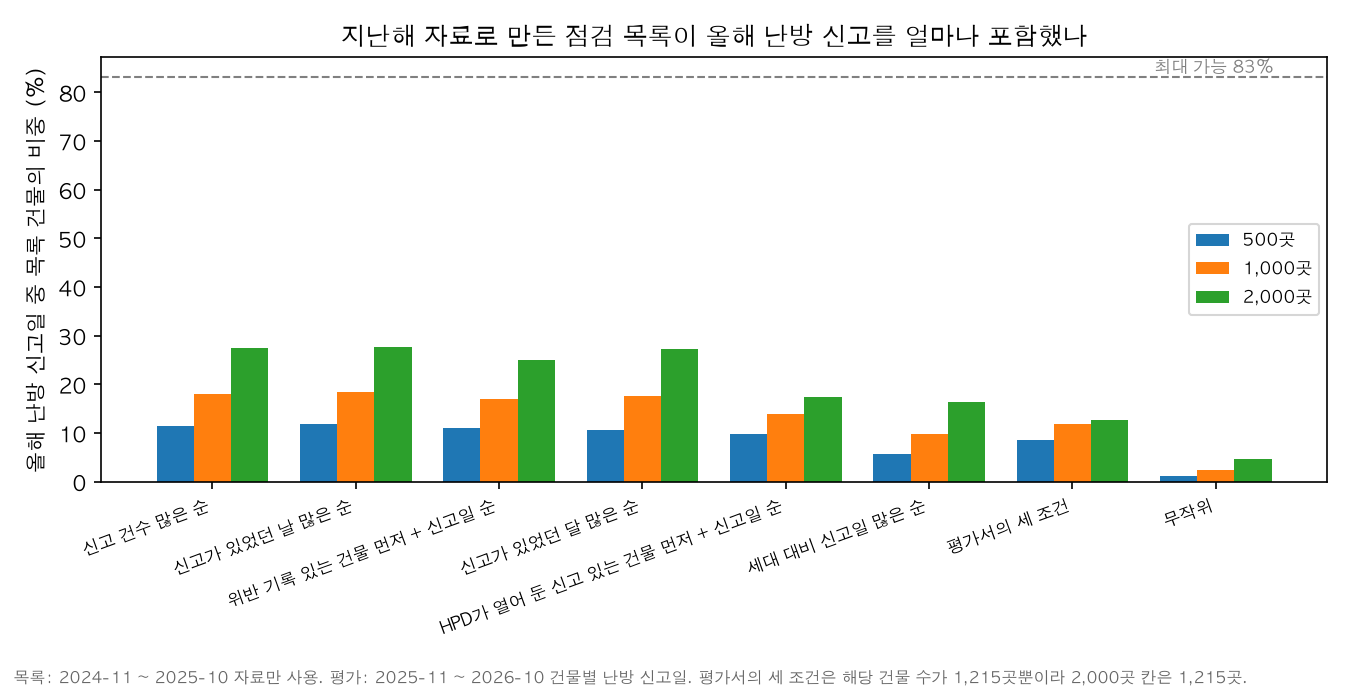
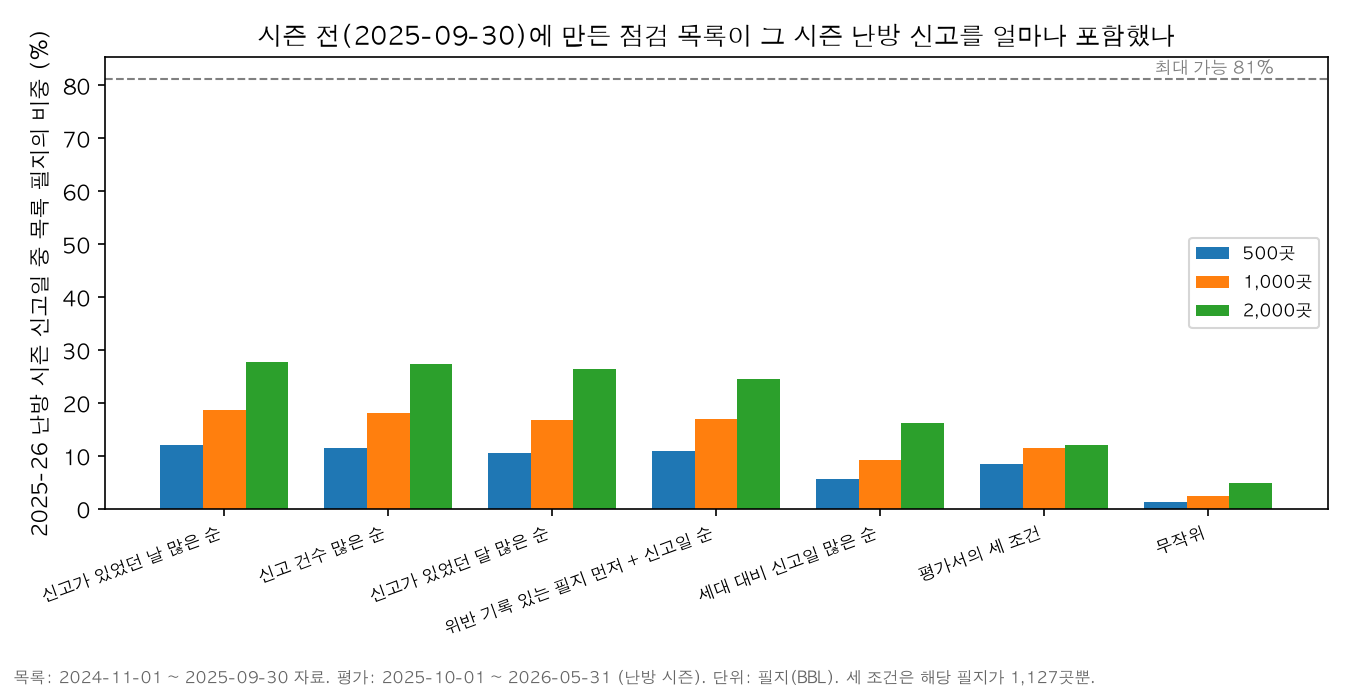
Re-time the heat inspection backtest and soften its claims
- List made on 2025-09-30 (day before the heat season) from data through
  that date; evaluated on the 2025-26 heat season (Oct-May). Violation rules
  use inspections before the list date; the 'HPD left open' rule is dropped
- 1,000 lots: report-days order 18.6%, request order 18.1%, random 2.4%;
  rough ranges overlap, so no single best rule is claimed
- Coverage is labelled as not a reduction of problems; unit is the tax lot
  (BBL), not a building; inspection counts and costs are not estimated
- Map: the heat-per-unit layer is marked as a fixed annual value

diff --git a/dashboard/app.js b/dashboard/app.js
@@ -314,30 +314,32 @@
   function proposalCard() {
     const PD = window.PROPOSAL_DATA; if (!PD) return "";
     const pc = v => `${(v * 100).toFixed(1)}%`, at = (rule, n) => PD.results.find(r => r.rule === rule && r.N === n);
-    const best = at("days", PROP_N), rnd = at("random", PROP_N);
-    const order = ["days", "volume", "months", "days_viol", "open_left", "per_unit", "three", "random"];
-    const SHORT = { days: "신고가 있었던 날 많은 순", volume: "신고 건수 많은 순", months: "신고가 있었던 달 많은 순", days_viol: "위반 건물 먼저 + 신고일 순",
-      open_left: "HPD 열어 둔 건물 먼저 + 신고일 순", per_unit: "세대 대비 신고일 순", three: "평가서의 세 조건", random: "무작위 (200번 평균)" };
+    const best = at("days", PROP_N), vol = at("volume", PROP_N), rnd = at("random", PROP_N);
+    const order = ["days", "volume", "months", "days_viol", "per_unit", "three", "random"];
+    const SHORT = { days: "신고가 있었던 날 많은 순", volume: "신고 건수 많은 순", months: "신고가 있었던 달 많은 순", days_viol: "위반 필지 먼저 + 신고일 순",
+      per_unit: "세대 대비 신고일 순", three: "평가서의 세 조건", random: "무작위 (200번 평균)" };
     const items = order.map(k => at(k, PROP_N)).filter(Boolean).map(r => ({ label: SHORT[r.rule] || r.label, value: r.share_days * 100,
       valueText: `${pc(r.share_days)}${r.buildings < PROP_N ? ` (${fmtN(r.buildings)}곳)` : ""}`, color: r.rule === "days" ? "var(--s1)" : r.rule === "random" ? GRAY : "#9db9e0", hl: r.rule === "days",
-      tip: `<b>${esc(r.label)}</b><br>${fmtN(r.buildings)}곳 · 올해 난방 신고일 ${pc(r.share_days)} · 신고 건수 ${pc(r.share_req)} · HPD 위반 ${pc(r.share_viol)}<br>목록 중 올해 10일+ 신고 ${pc(r.hit10)}` }));
-    const nSel = `<label class="tgl">점검할 건물 수 <select id="prop-n">${[500, 1000, 2000].map(n => `<option value="${n}"${n === PROP_N ? " selected" : ""}>${fmtN(n)}곳</option>`).join("")}</select></label>`;
-    const tbl = table(["목록 규칙 (지난해 자료로 만듦)", "건물", "올해 난방 신고일", "신고 건수", "HPD 위반", "올해 10일+ 신고"], order.map(k => at(k, PROP_N)).filter(Boolean).map(r => ({ cls: r.rule === "days" ? "hlrow" : r.rule === "random" ? "small" : "",
+      tip: `<b>${esc(r.label)}</b><br>${fmtN(r.buildings)}곳 · 시즌 난방 신고일 ${pc(r.share_days)} · 신고 건수 ${pc(r.share_req)} · HPD 위반 ${pc(r.share_viol)}<br>목록 중 시즌에 10일+ 신고 ${pc(r.hit10)}` }));
+    const nSel = `<label class="tgl">점검할 필지 수 <select id="prop-n">${[500, 1000, 2000].map(n => `<option value="${n}"${n === PROP_N ? " selected" : ""}>${fmtN(n)}곳</option>`).join("")}</select></label>`;
+    const tbl = table(["목록 규칙 (시즌 전 자료로 만듦)", "필지", "시즌 난방 신고일", "신고 건수", "HPD 위반", "시즌에 10일+ 신고"], order.map(k => at(k, PROP_N)).filter(Boolean).map(r => ({ cls: r.rule === "days" ? "hlrow" : r.rule === "random" ? "small" : "",
       cells: [esc(r.label), fmtN(r.buildings), `<b>${pc(r.share_days)}</b>`, pc(r.share_req), pc(r.share_viol), pc(r.hit10)] })), { num: [1, 2, 3, 4, 5] });
-    const BKO2 = r => BKO[r.borough] || r.borough;
-    return card({ id: "home-prop", cls: "proposal", q: "제안: 지난해 신고 기록으로 난방 선제 점검 목록 만들기",
-      what: `<span class="fixtag">두 해 자료로 검증 · 기준 연도와 무관</span> 겨울이 오기 전에, 지난해 난방·온수 신고가 <b>여러 날 반복된 건물</b>부터 점검하자는 제안입니다. 2024-25년 자료로만 목록을 만들고, 2025-26년 자료로 얼마나 맞았는지 확인했습니다.`,
-      meta: meta("%", "지난해 목록 → 올해 결과 (무작위 목록과 비교)", `후보: 지난해 난방 신고가 있었던 건물 ${fmtN(PD.candidates)}곳 · 대상 사용자: HPD 난방 점검팀, 세입자 단체`),
+    const rr = PD.rough_range_1000 || {}, rrTxt = k => rr[k] ? `${(rr[k][0] * 100).toFixed(1)}~${(rr[k][1] * 100).toFixed(1)}%` : "-";
+    const BKO2 = r => BKO[r.borough] || r.borough, newShare = 1 - PD.ceiling.days;
+    return card({ id: "home-prop", cls: "proposal", q: "제안: 지난 신고 기록으로 난방 시즌 전 선제 점검 목록 만들기",
+      what: `<span class="fixtag">두 해 자료로 검증 · 기준 연도와 무관</span> 난방 시즌(10월~5월)이 시작되기 전에, 직전 1년 동안 난방·온수 신고가 <b>여러 날 반복된 필지(건물 번호 BBL)</b>부터 점검하자는 제안입니다. 시즌 전날(2025-09-30)까지의 자료로만 목록을 만들고, 2025-26 난방 시즌 자료로 얼마나 맞았는지 확인했습니다.`,
+      meta: meta("%", "시즌 전 목록 → 그 시즌 결과 (무작위 목록과 비교)", `후보: 2024-11-01 ~ 2025-09-30에 난방 신고가 있었던 필지 ${fmtN(PD.candidates)}곳 · 대상 사용자: HPD 난방 점검팀, 세입자 단체`),
       body: `<div class="kpis">
-        <div class="kpi"><div class="lab">문제</div><div class="val">상위 1%</div><div class="sub">난방 신고가 있었던 건물 중 상위 1%가 신고의 약 24%를 차지하고, 같은 건물이 해마다 다시 나옵니다</div></div>
-        <div class="kpi"><div class="lab">지난해 목록 ${fmtN(PROP_N)}곳 → 올해</div><div class="val">${pc(best.share_days)}</div><div class="sub">올해 난방 신고일 중 목록 건물의 비중 · 무작위 ${pc(rnd.share_days)}의 약 ${Math.round(best.share_days / rnd.share_days)}배 · HPD 위반의 ${pc(best.share_viol)}</div></div>
-        <div class="kpi"><div class="lab">다시 반복된 건물</div><div class="val">${pc(best.hit10)}</div><div class="sub">목록 건물 중 올해도 10일 이상 신고된 비율 · 약 ${(best.units / 10000).toFixed(1)}만 세대</div></div></div>` +
-        nSel + `<h4 class="minih">목록을 만드는 방법에 따라 올해 난방 신고일을 얼마나 미리 짚었나</h4>` +
-        hbars(items, { w: wOf("home-proposal") - 40, labelW: 250, valW: 120, aria: "목록 규칙별 적중률" }) +
-        details("규칙별 자세한 값", tbl + `<p class="note">지난해 신고가 있었던 건물 전체가 올해 난방 신고일의 ${pc(PD.ceiling.days)}를 차지했습니다(어떤 목록도 이보다 높을 수 없음). 평가서의 세 조건(10일+ 반복, 세대 대비 상위 10%, 위반)은 해당 건물이 ${fmtN(PD.three_all.buildings)}곳이고 ${pc(PD.three_all.share_days)}였습니다. 같은 수를 신고일 순으로 고르면 ${pc(PD.days_same_size.share_days)}입니다.</p>`) +
-        details("1,000곳 목록의 모습 (주소는 싣지 않음)", table(["자치구", "건물", "세대"], PD.by_borough.map(r => [esc(BKO2(r)), fmtN(r.buildings), fmtN(r.units)]), { num: [1, 2] })),
-      read: `${T.f}「신고가 있었던 날이 많은 순」이 가장 잘 맞았고, 평가서가 권장한 세 조건 목록은 덜 맞았습니다. ${T.m}난방 문제는 보일러·배관처럼 건물에 붙은 원인이 많아 해마다 같은 건물에서 반복되는 것으로 보입니다(원인은 확인하지 않음). ${T.w}올해 신고일의 약 17%는 지난해 신고가 없던 건물에서 나와 목록으로 못 잡습니다. 덜 신고하는 건물·주민, 311에 거의 없는 공공임대주택(NYCHA)은 빠집니다. 선제 점검의 효과 자체는 검증하지 않았습니다. 건물주·기관 평가가 아닙니다.`,
-      more: `방법: 목록은 2024-11 ~ 2025-10 자료만, 평가는 2025-11 ~ 2026-10. 주 지표 = 올해 난방 신고가 있었던 건물·날짜 중 목록 건물의 비중(같은 날 여러 건은 1). HPD 위반 = 점검일 2025-11-01 ~ 2026-11-10의 난방·온수 위반(신고 없던 건물 포함). 무작위 = 같은 수를 200번 뽑은 평균. 한 방향·한 번의 검증입니다. 자세한 내용: <a href="../reports/heat_priority_proposal.md" target="_blank">제안 보고서</a>` });
+        <div class="kpi"><div class="lab">문제</div><div class="val">상위 1%</div><div class="sub">난방 신고가 있었던 필지 중 상위 1%가 신고의 약 24%를 차지하고, 같은 곳이 해마다 다시 나옵니다</div></div>
+        <div class="kpi"><div class="lab">시즌 전 목록 ${fmtN(PROP_N)}곳 → 2025-26 시즌</div><div class="val">${pc(best.share_days)}</div><div class="sub">시즌 난방 신고일 중 목록 필지의 비중 · 무작위 ${pc(rnd.share_days)}의 약 ${Math.round(best.share_days / rnd.share_days)}배. <b>문제가 줄어든 비율이 아닙니다</b></div></div>
+        <div class="kpi"><div class="lab">시즌에도 반복된 필지</div><div class="val">${pc(best.hit10)}</div><div class="sub">목록 필지 중 그 시즌에 10일 이상 신고된 비율 · 약 ${(best.units / 10000).toFixed(1)}만 세대</div></div></div>` +
+        nSel + `<h4 class="minih">목록을 만드는 방법에 따라 그 시즌 난방 신고일을 얼마나 미리 짚었나</h4>` +
+        hbars(items, { w: wOf("home-proposal") - 40, labelW: 250, valW: 120, aria: "목록 규칙별 포괄 비율" }) +
+        details("규칙별 자세한 값", tbl + `<p class="note">분모: 시즌 중 BBL이 있는 난방 신고의 필지·날짜 ${fmtN(PD.totals.days)}개(BBL 없는 신고 ${fmtN(PD.no_bbl_eval_requests)}건 제외). 직전 1년 신고가 있었던 필지 전체가 시즌 신고일의 ${pc(PD.ceiling.days)}를 차지했습니다(어떤 목록도 이보다 높을 수 없음). 평가서의 세 조건은 해당 필지가 ${fmtN(PD.three_all.buildings)}곳이고 ${pc(PD.three_all.share_days)}였습니다. 같은 수를 신고일 순으로 고르면 ${pc(PD.days_same_size.share_days)}입니다. 「HPD가 열어 둔 신고」 규칙은 그 문구가 목록 작성 시점에 보였는지 확인할 수 없어 비교에서 뺐습니다.</p>`) +
+        details("신고일 순 필지 1,000곳 목록의 모습 (주소는 싣지 않음)", table(["자치구", "필지", "세대"], PD.by_borough.map(r => [esc(BKO2(r)), fmtN(r.buildings), fmtN(r.units)]), { num: [1, 2] }) +
+          `<p class="note">필지(BBL)는 건물 하나와 같지 않습니다. 이 목록에는 200세대 이상 필지 ${fmtN(PD.lots_200plus_units_in_list)}곳(여러 동일 수 있음)과 콘도 대표 필지로 보이는 ${fmtN(PD.condo_billing_lots_in_list)}곳이 있습니다. 실제 점검 건수·비용은 추정하지 않았습니다.</p>`),
+      read: `${T.f}직전 1년의 신고 이력으로 만든 규칙(신고일 순 ${pc(best.share_days)}, 신고 건수 순 ${pc(vol.share_days)})은 비슷한 수준으로 무작위의 약 ${Math.round(best.share_days / rnd.share_days)}배였습니다. 두 규칙의 대략적인 범위(${rrTxt("days")}, ${rrTxt("volume")})가 겹쳐 어느 쪽이 낫다고 말할 수 없고, 한 시즌만 비교했습니다. 신고일 순은 같은 날 여러 건을 하루로 세어 몰아치기 접수의 영향을 줄이려고 고른 방식입니다. 평가서가 권장한 세 조건 목록은 이보다 낮았습니다. ${T.m}난방 문제는 보일러·배관처럼 건물에 붙은 원인이 많아 같은 곳에서 반복되는 것으로 보입니다(원인은 확인하지 않음). ${T.w}이 비율은 목록에 들어간 비중이지 문제 감소 효과가 아니며, 선제 점검의 효과는 검증하지 않았습니다. 시즌 신고일의 약 ${Math.round(newShare * 100)}%는 직전 1년 신고가 없던 필지에서 나와 목록으로 못 잡고, 덜 신고하는 곳과 311에 거의 없는 공공임대주택(NYCHA)은 빠집니다. 건물주·기관 평가가 아닙니다.`,
+      more: `시간 기준: 목록 작성일 2025-09-30(난방 시즌 전날). 선정 자료 = 2024-11-01 ~ 2025-09-30 신고와 그 기간 점검일의 HPD 위반. 평가 = 2025-10-01 ~ 2026-05-31 난방 시즌(10월은 지난해 파일, 11~5월은 올해 파일). 주 지표 = 시즌 중 난방 신고가 있었던 필지·날짜 중 목록 필지의 비중(같은 날 여러 건은 1). HPD 위반 = 같은 시즌 점검일의 난방·온수 위반(신고 없던 필지 포함). 무작위 = 같은 수를 200번 뽑은 평균. 대략적인 범위 = 시즌 필지를 다시 뽑아(300번) 목록은 그대로 두고 계산한 2.5~97.5% 구간으로, 다른 해의 결과를 보장하지 않습니다. 세대 수는 현재 PLUTO 값. 자세한 내용: <a href="../reports/heat_priority_proposal.md" target="_blank">제안 보고서</a>` });
   }
   function renderHome() {
     if ($("home-proposal")) $("home-proposal").innerHTML = proposalCard();
@@ -447,7 +449,7 @@
       unit = `건 / 주민 1,000명${st.m >= 0 ? " (한 달)" : per === 2 ? " (1년 평균)" : " (1년)"}`; what = "현재 조건(유형·기관·기간·집중 주소)의 신고를 2020년 인구로 나눈 값입니다. 주민이 아닌 사람(통근자·관광객)의 신고도 들어 있어 맨해튼 중심가는 높게 나옵니다."; }
     else if (MAP_M === "share") { const n = byCb(cbRows(cond)), d = byCb(cbRows(Object.assign({}, cond, { p: -1 }))); Object.keys(CEN).forEach(k => { val[k] = d[k] ? (n[k] || 0) / d[k] * 100 : null; });
       unit = `% (그 지역 신고 중 ${esc(pShort(st.p))})`; what = "각 세부 지역의 신고 중 고른 유형의 비중입니다(분모 = 그 지역의 모든 유형 신고)."; }
-    else if (MAP_M === "heat") { BDc.forEach(r => { val[r.cb] = r.days_per_1000; }); unit = "난방 신고일 / 주거 세대 1,000곳"; what = "건물마다 난방 신고가 있었던 날을 더해 PLUTO 주거 세대 수로 나눈 값입니다(3번 화면 건물 카드와 같은 값)."; }
+    else if (MAP_M === "heat") { BDc.forEach(r => { val[r.cb] = r.days_per_1000; }); unit = "난방 신고일 / 주거 세대 1,000곳 (1년)"; what = "필지마다 난방 신고가 있었던 날을 더해 PLUTO 주거 세대 수로 나눈 1년 값입니다(3번 화면 건물 카드와 같은 값). 위에서 고른 유형·기관·기간·집중 주소 조건은 이 값에 적용되지 않습니다."; }
     else { Object.keys(CEN).forEach(k => { val[k] = CEN[k].renter_pct; }); unit = "% (거주 가구 중 임차 가구)"; what = "2020년 인구조사(전수)의 거주 가구 중 임차 가구 비율입니다. 311 자료가 아니며, 신고하는 사람의 주거 형태를 뜻하지도 않습니다."; }
     const vs = Object.values(val).filter(v => v != null).sort((a, b) => a - b);
     const qs = [0.2, 0.4, 0.6, 0.8].map(q => vs[Math.floor(q * (vs.length - 1))]);
@@ -484,7 +486,7 @@
     const sel = `<label class="tgl">지도에 칠할 값 <select id="map-m">${OPTS.map(([k, t]) => `<option value="${k}"${k === MAP_M ? " selected" : ""}${k === "share" && st.p < 0 ? " disabled" : ""}>${t}${k === "share" && st.p < 0 ? " (위에서 유형을 고르면)" : ""}</option>`).join("")}</select></label>`;
     return card({ id: "where-map", q: "지도로 보면 어디가 높은가요? (세부 지역 59곳)",
       what: `${esc(what)} 지역을 누르면 그 세부 지역을 고릅니다.`,
-      meta: meta(esc(unit), "다섯 구간(같은 수의 지역씩)", `${MAP_M === "renter" ? "2020년 인구조사" : `${YR.label} · ${st.m >= 0 ? mLabel(st.m) : "전체 기간"}${st.x ? " · 집중 주소 제외" : ""}`} · 311 신고의 세부 지역 값 기준`),
+      meta: meta(esc(unit), "다섯 구간(같은 수의 지역씩)", `${MAP_M === "renter" ? "2020년 인구조사 (위 조건 미적용)" : MAP_M === "heat" ? `${YR.label} 1년 고정값 · 위 유형·기관·기간·집중 주소 조건 미적용 · PLUTO 커뮤니티 디스트릭트 기준` : `${YR.label} · ${st.m >= 0 ? mLabel(st.m) : "전체 기간"}${st.x ? " · 집중 주소 제외" : ""} · 311 신고의 세부 지역 값 기준`}`),
       body: sel + legendHtml + `<svg class="chart cdmap" viewBox="0 0 ${vw} ${vh}" role="img" aria-label="세부 지역 지도">${svg}</svg>` +
         details("59곳 값 모두 보기 (높은 순)", table(["세부 지역", "값", "임차 가구", "2020 인구"], ranked.map(k => ({ cls: st.cd >= 0 && CBS[st.cd] === k ? "hlrow" : "", attr: ` data-setcd="${CBS.indexOf(k)}"`, cells: [esc(lab(k)), fmtV(val[k]), `${CEN[k] ? CEN[k].renter_pct : "-"}%`, CEN[k] ? fmtN(CEN[k].pop) : "-"] })), { num: [1, 2, 3] })) + pair,
       read: ranked.length ? `${T.f}가장 높은 곳은 ${ranked.slice(0, 3).map(k => `${lab(k)}(${fmtV(val[k])})`).join(", ")}, 가장 낮은 곳은 ${ranked.slice(-2).map(k => `${lab(k)}(${fmtV(val[k])})`).join(", ")}입니다. ${T.w}색은 순위에 따른 구간이라 차이의 크기를 그대로 나타내지 않습니다. 지역 평가나 순위 매김이 아닙니다.` : "",

diff --git a/dashboard/data/proposal_data.js b/dashboard/data/proposal_data.js
@@ -1,1 +1,1 @@
-window.PROPOSAL_DATA = {"candidates":35938,"totals":{"days":228540,"req":350523,"viol":30997},"ceiling":{"days":0.8304279338409031,"req":0.8692781928717944,"viol":0.8209826757428138},"three_all":{"buildings":1215,"share_days":0.12607421020390303,"share_req":0.15786125304188314,"share_viol":0.14052972868342098,"hit10":0.6477366255144033,"any_cur":0.9588477366255144,"units":33683.0},"days_same_size":{"buildings":1215,"share_days":0.20599894985560516,"share_req":0.28559609497807564,"share_viol":0.1652740587798819,"hit10":0.8806584362139918,"any_cur":0.9876543209876543,"units":166717.0},"best":{"rule":"days","label":"신고가 있었던 날 많은 순","share_days":0.18372713748140368,"share_req":0.25829403491354347,"share_viol":0.14336871310126786,"hit10":0.894,"any_cur":0.987,"units":152229.0},"results":[{"rule":"volume","label":"신고 건수 많은 순","N":500,"buildings":500.0,"share_days":0.1146,"share_req":0.1938,"share_viol":0.0926,"hit10":0.91,"units":87695.0},{"rule":"days","label":"신고가 있었던 날 많은 순","N":500,"buildings":500.0,"share_days":0.1187,"share_req":0.1881,"share_viol":0.0893,"hit10":0.92,"units":86328.0},{"rule":"days_viol","label":"위반 기록 있는 건물 먼저 + 신고일 순","N":500,"buildings":500.0,"share_days":0.1109,"share_req":0.1671,"share_viol":0.0989,"hit10":0.918,"units":90359.0},{"rule":"months","label":"신고가 있었던 달 많은 순","N":500,"buildings":500.0,"share_days":0.1063,"share_req":0.1657,"share_viol":0.0934,"hit10":0.932,"units":105121.0},{"rule":"per_unit","label":"세대 대비 신고일 많은 순 (6세대+)","N":500,"buildings":500.0,"share_days":0.0567,"share_req":0.0798,"share_viol":0.0568,"hit10":0.64,"units":7763.0},{"rule":"three","label":"평가서의 세 조건","N":500,"buildings":500.0,"share_days":0.0863,"share_req":0.1165,"share_viol":0.069,"hit10":0.87,"units":21546.0},{"rule":"open_left","label":"HPD가 열어 둔 신고 있는 건물 먼저 + 신고일 순","N":500,"buildings":500.0,"share_days":0.0975,"share_req":0.1379,"share_viol":0.0787,"hit10":0.902,"units":86006.0},{"rule":"random","label":"무작위 (200번 평균)","N":500,"buildings":500.0,"share_days":0.0115,"share_req":0.0121,"share_viol":0.0114,"hit10":0.1575,"units":18502.515},{"rule":"volume","label":"신고 건수 많은 순","N":1000,"buildings":1000.0,"share_days":0.1794,"share_req":0.2661,"share_viol":0.1465,"hit10":0.872,"units":147731.0},{"rule":"days","label":"신고가 있었던 날 많은 순","N":1000,"buildings":1000.0,"share_days":0.1837,"share_req":0.2583,"share_viol":0.1434,"hit10":0.894,"units":152229.0},{"rule":"days_viol","label":"위반 기록 있는 건물 먼저 + 신고일 순","N":1000,"buildings":1000.0,"share_days":0.1693,"share_req":0.2336,"share_viol":0.1571,"hit10":0.875,"units":144228.0},{"rule":"months","label":"신고가 있었던 달 많은 순","N":1000,"buildings":1000.0,"share_days":0.1762,"share_req":0.2517,"share_viol":0.1532,"hit10":0.892,"units":154900.0},{"rule":"per_unit","label":"세대 대비 신고일 많은 순 (6세대+)","N":1000,"buildings":1000.0,"share_days":0.0976,"share_req":0.1297,"share_viol":0.0994,"hit10":0.58,"units":18664.0},{"rule":"three","label":"평가서의 세 조건","N":1000,"buildings":1000.0,"share_days":0.1188,"share_req":0.1511,"share_viol":0.1255,"hit10":0.722,"units":31225.0},{"rule":"open_left","label":"HPD가 열어 둔 신고 있는 건물 먼저 + 신고일 순","N":1000,"buildings":1000.0,"share_days":0.1381,"share_req":0.1801,"share_viol":0.1217,"hit10":0.808,"units":136282.0},{"rule":"random","label":"무작위 (200번 평균)","N":1000,"buildings":1000.0,"share_days":0.023,"share_req":0.0239,"share_viol":0.0225,"hit10":0.158,"units":36836.36},{"rule":"volume","label":"신고 건수 많은 순","N":2000,"buildings":2000.0,"share_days":0.2739,"share_req":0.3683,"share_viol":0.2328,"hit10":0.8105,"units":229022.0},{"rule":"days","label":"신고가 있었던 날 많은 순","N":2000,"buildings":2000.0,"share_days":0.2761,"share_req":0.3632,"share_viol":0.236,"hit10":0.8225,"units":238885.0},{"rule":"days_viol","label":"위반 기록 있는 건물 먼저 + 신고일 순","N":2000,"buildings":2000.0,"share_days":0.2501,"share_req":0.3175,"share_viol":0.2596,"hit10":0.783,"units":213899.0},{"rule":"months","label":"신고가 있었던 달 많은 순","N":2000,"buildings":2000.0,"share_days":0.2728,"share_req":0.354,"share_viol":0.2336,"hit10":0.8245,"units":246511.0},{"rule":"per_unit","label":"세대 대비 신고일 많은 순 (6세대+)","N":2000,"buildings":2000.0,"share_days":0.1634,"share_req":0.2064,"share_viol":0.1601,"hit10":0.5075,"units":41796.0},{"rule":"three","label":"평가서의 세 조건","N":2000,"buildings":1215.0,"share_days":0.1261,"share_req":0.1579,"share_viol":0.1405,"hit10":0.6477,"units":33683.0},{"rule":"open_left","label":"HPD가 열어 둔 신고 있는 건물 먼저 + 신고일 순","N":2000,"buildings":2000.0,"share_days":0.173,"share_req":0.2135,"share_viol":0.1584,"hit10":0.547,"units":181464.0},{"rule":"random","label":"무작위 (200번 평균)","N":2000,"buildings":2000.0,"share_days":0.0461,"share_req":0.0483,"share_viol":0.0454,"hit10":0.1578,"units":73972.945}],"by_borough":[{"borough":"BRONX","buildings":414,"units":62511.0,"days_cur":18253.0},{"borough":"BROOKLYN","buildings":240,"units":32872.0,"days_cur":9734.0},{"borough":"MANHATTAN","buildings":213,"units":32294.0,"days_cur":8336.0},{"borough":"QUEENS","buildings":122,"units":21277.0,"days_cur":5252.0},{"borough":"STATEN ISLAND","buildings":11,"units":3275.0,"days_cur":414.0}],"by_size":[{"size_band":"100~199","buildings":118},{"size_band":"1~2","buildings":8},{"size_band":"200+","buildings":141},{"size_band":"20~49","buildings":279},{"size_band":"3~5","buildings":12},{"size_band":"50~99","buildings":344},{"size_band":"6~19","buildings":85}],"open_left":{"prev":2663,"cur":7783},"report":"reports/heat_priority_proposal.md"};
+window.PROPOSAL_DATA = {"candidates":33486,"totals":{"days":220400.0,"req":338865.0,"viol":26354.0},"ceiling":{"days":0.8121869328493648,"req":0.8535463975329408,"viol":0.8019276011231692},"three_all":{"buildings":1127,"share_days":0.11991833030852994,"share_req":0.14372980390420964,"share_viol":0.13386962130985808,"hit10":0.642413487133984,"units":32024.0},"days_same_size":{"buildings":1127,"share_days":0.20024500907441017,"share_req":0.279828250188128,"share_viol":0.15933065189345072,"hit10":0.8766637089618456,"units":157144.0},"timing":{"list_date":"2025-09-30","selection":["2024-11-01","2025-09-30"],"evaluation":["2025-10-01","2026-05-31"],"unit":"BBL (tax lot)"},"rough_range_1000":{"days":[0.17322008368078506,0.1989560266849287],"volume":[0.16805136603864218,0.19197076588620787],"months":[0.15550297818764286,0.18025463332105687]},"by_month_days_1000":{"2025-10":0.19065656565656566,"2025-11":0.2049643568171601,"2025-12":0.18403818936359057,"2026-01":0.1636569533477584,"2026-02":0.16781490723662798,"2026-03":0.22231278655119716,"2026-04":0.22075106465350366,"2026-05":0.19552901546470677},"no_bbl_eval_requests":1196,"condo_billing_lots_in_list":33,"lots_200plus_units_in_list":137,"results":[{"rule":"days","label":"신고가 있었던 날 많은 순","N":500,"buildings":500.0,"share_days":0.1197,"share_req":0.187,"share_viol":0.0907,"hit10":0.92,"units":86484.0},{"rule":"volume","label":"신고 건수 많은 순","N":500,"buildings":500.0,"share_days":0.114,"share_req":0.1902,"share_viol":0.0866,"hit10":0.894,"units":84763.0},{"rule":"months","label":"신고가 있었던 달 많은 순","N":500,"buildings":500.0,"share_days":0.105,"share_req":0.167,"share_viol":0.0894,"hit10":0.924,"units":99826.0},{"rule":"days_viol","label":"위반 기록 있는 필지 먼저 + 신고일 순","N":500,"buildings":500.0,"share_days":0.1096,"share_req":0.1615,"share_viol":0.0979,"hit10":0.904,"units":89577.0},{"rule":"per_unit","label":"세대 대비 신고일 많은 순 (6세대+)","N":500,"buildings":500.0,"share_days":0.0557,"share_req":0.0778,"share_viol":0.0559,"hit10":0.576,"units":7627.0},{"rule":"three","label":"평가서의 세 조건","N":500,"buildings":500.0,"share_days":0.0848,"share_req":0.1095,"share_viol":0.0738,"hit10":0.85,"units":21443.0},{"rule":"random","label":"무작위 (200번 평균)","N":500,"buildings":500.0,"share_days":0.0122,"share_req":0.0129,"share_viol":0.0118,"hit10":0.1598,"units":18544.6},{"rule":"days","label":"신고가 있었던 날 많은 순","N":1000,"buildings":1000.0,"share_days":0.1863,"share_req":0.263,"share_viol":0.1443,"hit10":0.888,"units":148041.0},{"rule":"volume","label":"신고 건수 많은 순","N":1000,"buildings":1000.0,"share_days":0.1812,"share_req":0.2669,"share_viol":0.1474,"hit10":0.866,"units":134949.0},{"rule":"months","label":"신고가 있었던 달 많은 순","N":1000,"buildings":1000.0,"share_days":0.1679,"share_req":0.2404,"share_viol":0.1436,"hit10":0.854,"units":149747.0},{"rule":"days_viol","label":"위반 기록 있는 필지 먼저 + 신고일 순","N":1000,"buildings":1000.0,"share_days":0.1699,"share_req":0.2295,"share_viol":0.154,"hit10":0.864,"units":145390.0},{"rule":"per_unit","label":"세대 대비 신고일 많은 순 (6세대+)","N":1000,"buildings":1000.0,"share_days":0.0918,"share_req":0.1198,"share_viol":0.0936,"hit10":0.509,"units":17375.0},{"rule":"three","label":"평가서의 세 조건","N":1000,"buildings":1000.0,"share_days":0.115,"share_req":0.1393,"share_viol":0.1261,"hit10":0.682,"units":30594.0},{"rule":"random","label":"무작위 (200번 평균)","N":1000,"buildings":1000.0,"share_days":0.0243,"share_req":0.0256,"share_viol":0.024,"hit10":0.1612,"units":37853.645},{"rule":"days","label":"신고가 있었던 날 많은 순","N":2000,"buildings":2000.0,"share_days":0.2771,"share_req":0.3615,"share_viol":0.2383,"hit10":0.806,"units":233521.0},{"rule":"volume","label":"신고 건수 많은 순","N":2000,"buildings":2000.0,"share_days":0.2732,"share_req":0.3629,"share_viol":0.23,"hit10":0.795,"units":227863.0},{"rule":"months","label":"신고가 있었던 달 많은 순","N":2000,"buildings":2000.0,"share_days":0.264,"share_req":0.3443,"share_viol":0.23,"hit10":0.7845,"units":236975.0},{"rule":"days_viol","label":"위반 기록 있는 필지 먼저 + 신고일 순","N":2000,"buildings":2000.0,"share_days":0.2452,"share_req":0.3076,"share_viol":0.2564,"hit10":0.7495,"units":210046.0},{"rule":"per_unit","label":"세대 대비 신고일 많은 순 (6세대+)","N":2000,"buildings":2000.0,"share_days":0.1619,"share_req":0.1997,"share_viol":0.1586,"hit10":0.4785,"units":41635.0},{"rule":"three","label":"평가서의 세 조건","N":2000,"buildings":1127.0,"share_days":0.1199,"share_req":0.1437,"share_viol":0.1339,"hit10":0.6424,"units":32024.0},{"rule":"random","label":"무작위 (200번 평균)","N":2000,"buildings":2000.0,"share_days":0.0484,"share_req":0.0509,"share_viol":0.0482,"hit10":0.161,"units":74658.655}],"by_borough":[{"borough":"BRONX","buildings":418,"units":62784.0,"days_cur":18010.0},{"borough":"BROOKLYN","buildings":234,"units":31803.0,"days_cur":9272.0},{"borough":"MANHATTAN","buildings":212,"units":29640.0,"days_cur":8120.0},{"borough":"QUEENS","buildings":122,"units":20308.0,"days_cur":5260.0},{"borough":"STATEN ISLAND","buildings":14,"units":3506.0,"days_cur":393.0}],"by_size":[{"size_band":"100~199","buildings":124},{"size_band":"1~2","buildings":11},{"size_band":"200+","buildings":137},{"size_band":"20~49","buildings":275},{"size_band":"3~5","buildings":14},{"size_band":"50~99","buildings":341},{"size_band":"6~19","buildings":88}],"dropped_rules":["open_left: wording from a later file snapshot; not clear it was visible on the list date"],"report":"reports/heat_priority_proposal.md"};

diff --git a/dashboard/index.html b/dashboard/index.html
@@ -185,11 +185,11 @@
 <script src="data/both/relations_data.js?v=y2"></script>
 <script src="data/both/spike_data.js?v=y2"></script>
 <script src="data/compare_data.js?v=y2"></script>
-<script src="data/proposal_data.js?v=p1"></script>
+<script src="data/proposal_data.js?v=p2"></script>
 <script src="data/map_data.js?v=m2"></script>
 <script src="year.js?v=y2"></script>
 <script src="relations.js?v=27"></script>
-<script src="app.js?v=34"></script>
+<script src="app.js?v=35"></script>
 <!-- Independent permitted-events module -->
 <script src="data/events_data.js?v=events-20261126"></script>
 <script src="events.js?v=events-20261126"></script>

diff --git a/reports/heat_priority_proposal.md b/reports/heat_priority_proposal.md
@@ -1,98 +1,131 @@
-# 제안: 지난해 신고 기록으로 난방 선제 점검 목록 만들기
+# 제안: 지난 신고 기록으로 난방 시즌 전 선제 점검 목록 만들기
 
-> 겨울이 시작되기 전에, 지난해 난방·온수 신고가 **여러 날 반복된 건물 1,000곳**을 먼저 점검하자.
-> 2024-25년 자료로 만든 목록은 2025-26년 난방 신고일의 **18.4%**, HPD 난방·온수 위반의 **14.3%**를 미리 짚었다. 무작위로 고른 1,000곳(2.3%)의 약 8배다.
+> 난방 시즌(10월~5월)이 시작되기 전에, 직전 1년 동안 난방·온수 신고가 **여러 날 반복된 필지 1,000곳**을 먼저 점검하자.
+> 시즌 전날(2025-09-30)까지의 자료로 만든 목록은 2025-26 난방 시즌 신고일의 **18.6%**, HPD 난방·온수 위반의 **14.4%**를 미리 짚었다. 무작위로 고른 1,000곳(2.4%)의 약 8배다.
+> 이 비율은 **목록에 들어간 비중**이지 문제가 줄어든 비율이 아니다.
 
-- **작성**: 2026-11-28
+- **작성**: 2026-11-28. 같은 날 심사 의견을 반영해 시간 기준을 운영 시점으로 맞추고 다시 계산했다(아래 「바뀐 점」).
 - **대상 사용자**: 뉴욕시 주택보존개발국(HPD) 난방 점검팀, 세입자 단체
-- **근거 자료**: 311 난방·온수 신고(두 해), HPD 난방·온수 위반 기록, PLUTO 세대 수
-- **주의**: 신고는 사건이 아니고, 신고가 많은 건물이 곧 문제 건물이라는 뜻도 아니다. 건물주·기관 평가가 아니며, 대시보드에는 건물 주소를 싣지 않는다.
+- **근거 자료**: 311 난방·온수 신고(두 해 파일), HPD 난방·온수 위반 기록, PLUTO 세대 수
+- **주의**: 신고는 사건이 아니고, 신고가 많은 필지가 곧 문제 건물이라는 뜻도 아니다. 건물주·기관 평가가 아니며, 대시보드에는 주소를 싣지 않는다.
 
 ---
 
 ## 1. 문제
 
-- 난방 신고는 매년 30만 건이 넘는다(2025-26년 351,780건). 대부분 겨울 몇 달에 몰리고, 점검은 신고를 받은 뒤에 이뤄진다.
-- 그런데 신고는 일부 건물에 몰린다. 올해 난방 신고가 있었던 건물 39,718곳 중 **상위 1%가 신고의 24%**, 상위 10%가 63%다.
-- 같은 건물이 해마다 다시 나온다면, 겨울이 오기 전에 그 건물을 먼저 살피는 편이 신고를 기다리는 것보다 빠르다.
+- 난방 신고는 매년 30만 건이 넘는다(2025-11 ~ 2026-10에 351,780건). 대부분 겨울에 몰리고, 점검은 신고를 받은 뒤에 이뤄진다.
+- 신고는 일부 필지에 몰린다. 2025-11 ~ 2026-10 난방 신고가 있었던 필지 중 **상위 1%가 신고의 약 24%**, 상위 10%가 약 63%다.
+- 같은 곳이 해마다 다시 나온다면, 시즌이 오기 전에 먼저 살피는 편이 신고를 기다리는 것보다 빠르다.
 
 ## 2. 제안
 
 | 항목 | 내용 |
 |---|---|
-| 무엇을 | 지난 1년 동안 난방·온수 신고가 **있었던 날이 많은 건물** 순으로 점검 목록을 만든다(같은 날 여러 건은 하루로 셈) |
-| 언제 | 난방 시즌(10월 1일) 전, 지난 시즌 자료가 닫히는 시점 |
+| 무엇을 | 직전 1년 동안 난방·온수 신고가 **있었던 날이 많은 필지** 순으로 점검 목록을 만든다(같은 날 여러 건은 하루로 셈) |
+| 언제 | 난방 시즌 시작 전(9월 말) |
 | 몇 곳 | 점검 여력에 맞춰 500 / 1,000 / 2,000곳 (아래는 1,000곳 기준) |
-| 누가 | HPD 점검팀(선제 점검), 세입자 단체(해당 건물 세입자에게 권리 안내) |
-| 무엇을 하지 않는가 | 목록을 공개하거나 건물주를 평가하지 않는다. 신고 대응(지금 방식)을 줄이지 않는다 |
+| 누가 | HPD 점검팀(선제 점검), 세입자 단체(해당 필지 세입자에게 권리 안내) |
+| 하지 않는 것 | 목록 공개, 건물주 평가, 신고 대응 축소 |
 
-## 3. 근거: 지난해로 만든 목록은 올해 얼마나 맞았나
+**단위는 필지(BBL)다.** 필지 하나는 건물 하나와 같지 않다.
+- 큰 단지는 한 필지에 여러 동이 있을 수 있고, 콘도는 대표 필지로 묶인다.
+- 1,000곳 목록에는 200세대 이상 필지 137곳과 콘도 대표 필지로 보이는 33곳이 있다.
+- 311 자료에는 건물 번호(BIN)가 없어 실제 건물 수를 확인할 수 없다.
+- 그래서 「1,000곳」은 점검 1,000건이 아니며, **점검 건수와 비용은 추정하지 않았다.**
 
-**방법** (결과를 보기 전에 정함)
-- 목록은 2024-11 ~ 2025-10 자료로만 만들었다. 대상은 그 기간 난방 신고가 1건 이상 있었던 건물 35,938곳이다.
-- 평가는 2025-11 ~ 2026-10 자료로 했다.
-  - 주 지표: 그 건물들이 올해 **난방 신고가 있었던 건물·날짜**에서 차지한 비중
-  - 함께 본 지표: 신고 건수 비중, HPD 위반 비중(점검일 2025-11-01 ~ 2026-11-10, 신고가 없던 건물 포함), 목록 중 올해 10일 이상 신고된 건물 비율
-- 목록 규칙 7가지를 같은 조건으로 비교하고, 무작위 목록 200개의 평균을 기준선으로 삼았다.
-- 「신고 건수 순」과 「평가서의 세 조건」은 이 분석 전에 한 번 비교해 본 적이 있다. 나머지 규칙과 지표는 결과를 보기 전에 정했다.
+## 3. 근거: 시즌 전 목록은 그 시즌에 얼마나 맞았나
+
+**시간 기준**
+
+| 구분 | 기간 |
+|---|---|
+| 목록 작성일 | 2025-09-30 (난방 시즌 전날) |
+| 선정 자료 | 2024-11-01 ~ 2025-09-30 난방 신고, 같은 기간 점검일의 HPD 위반 |
+| 평가 | 2025-10-01 ~ 2026-05-31 난방 시즌 (10월은 지난해 파일, 11~5월은 올해 파일) |
+
+- **주 지표**: 시즌 중 난방 신고가 있었던 필지·날짜 220,400개 가운데 목록 필지의 비중.
+  - BBL이 없는 신고 1,196건은 뺐다.
+  - 같은 날 여러 건은 하루로 셌다.
+- **함께 본 지표**: 신고 건수 비중, HPD 위반 비중(같은 시즌 점검일, 신고가 없던 필지 포함), 목록 중 시즌에 10일 이상 신고된 필지 비율.
+- **기준선**: 같은 수를 무작위로 200번 뽑은 평균.
 
 **[사실] 1,000곳 목록의 결과**
 
-| 목록 규칙 | 올해 난방 신고일 | 신고 건수 | HPD 위반 | 올해 10일+ 신고 | 세대 수 |
+| 목록 규칙 (선정 자료만 사용) | 시즌 난방 신고일 | 신고 건수 | HPD 위반 | 시즌에 10일+ 신고 | 세대 수 |
 |---|---:|---:|---:|---:|---:|
-| **신고가 있었던 날 많은 순 (제안)** | **18.4%** | 25.8% | 14.3% | 89% | 15.2만 |
-| 신고 건수 많은 순 | 17.9% | 26.6% | 14.6% | 87% | 14.8만 |
-| 신고가 있었던 달 많은 순 | 17.6% | 25.2% | 15.3% | 89% | 15.5만 |
-| 위반 기록 있는 건물 먼저 + 신고일 순 | 16.9% | 23.4% | **15.7%** | 88% | 14.4만 |
-| HPD가 열어 둔 신고 있는 건물 먼저 + 신고일 순 | 13.8% | 18.0% | 12.2% | 81% | 13.6만 |
-| 세대 대비 신고일 많은 순 (6세대 이상) | 9.8% | 13.0% | 9.9% | 58% | 1.9만 |
-| 무작위 (200번 평균) | 2.3% | 2.4% | 2.2% | 16% | 3.7만 |
+| **신고가 있었던 날 많은 순 (제안)** | **18.6%** | 26.3% | 14.4% | 89% | 14.8만 |
+| 신고 건수 많은 순 | 18.1% | 26.7% | 14.7% | 87% | 13.5만 |
+| 위반 기록 있는 필지 먼저 + 신고일 순 | 17.0% | 23.0% | **15.4%** | 86% | 14.5만 |
+| 신고가 있었던 달 많은 순 | 16.8% | 24.0% | 14.4% | 85% | 15.0만 |
+| 평가서의 세 조건 (1,127곳 중 1,000곳) | 11.5% | 13.9% | 12.6% | 68% | 3.1만 |
+| 세대 대비 신고일 많은 순 (6세대 이상) | 9.2% | 12.0% | 9.4% | 51% | 1.7만 |
+| 무작위 (200번 평균) | 2.4% | 2.6% | 2.4% | 16% | 3.8만 |
 
 ![규칙별 비교](proposal/figures/01_backtest_share_days.png)
 
-- 500곳이면 11.9%, 2,000곳이면 27.6%다(신고일 순, 주 지표).
-- 지난해 신고가 있었던 건물 전체가 올해 신고일의 83%를 차지했다. 지난해 신고 기록으로 만드는 어떤 목록도 이보다 높을 수 없다.
+**읽는 법**
+- 직전 1년의 **신고 이력으로 만든 규칙들**(신고일·건수 순)은 비슷한 수준(약 18%)이고, 무작위의 약 8배다.
+- 신고일 순과 신고 건수 순의 차이(0.5%p)는 작다. 시즌 필지를 다시 뽑아 본 대략의 범위가 서로 겹친다.
+  - 신고일 순 17.3~19.9%, 신고 건수 순 16.8~19.2%
+  - 따라서 **어느 쪽이 낫다고 말할 수 없다.**
+- 신고일 순을 제안한 이유는 성능 차이가 아니라 설계상의 이유다. 같은 날 여러 건을 하루로 세어, 한 번에 몰아 들어온 접수의 영향을 줄인다.
+- 500곳이면 12.0%, 2,000곳이면 27.7%다(신고일 순).
+- 시즌 안에서 월별로 봐도 16~22%로 고르다.
+- 직전 1년 신고가 있었던 필지 전체가 시즌 신고일의 81.2%를 차지했다. 신고 기록으로 만드는 어떤 목록도 이보다 높을 수 없다.
 
 **[사실] 평가서가 권장한 세 조건 목록은 덜 맞았다**
-- 세 조건은 10일 이상 반복, 세대 대비 상위 10%, 위반 기록이다. 지난해에 이 조건을 모두 만족한 건물은 1,215곳이다.
-  - 그 1,215곳은 올해 난방 신고일의 12.6%였다.
-  - 같은 수를 「신고일 순」으로 고르면 20.6%였다.
+- 세 조건은 10일 이상 반복, 세대 대비 상위 10%, 위반 기록이다. 선정 자료로 이 조건을 모두 만족한 필지는 1,127곳이다.
+  - 그 1,127곳은 시즌 신고일의 12.0%였다.
+  - 같은 수를 신고일 순으로 고르면 20.0%였다.
 - 「세대 대비 상위」 조건이 작은 건물을 많이 고르기 때문이다.
-- 평가서의 「1,422곳이 신고의 25%」는 **같은 해** 자료로 고르고 같은 해로 잰 값이라, 다음 해를 미리 짚는 힘은 그보다 낮다.
+
+**비교에서 뺀 규칙**: 「HPD가 열어 둔 신고가 있는 필지 먼저」. 그 문구는 나중에 받은 파일(2026-11-25)에 있는 것이라 목록 작성일에 보였는지 확인할 수 없고, 기록 방식도 해마다 달랐다.
 
 ## 4. 기대 효과
 
-- 1,000곳(지난해 난방 신고가 있었던 건물 35,938곳의 약 2.8%)을 먼저 점검하면, 다음 겨울 난방 신고일의 약 5분의 1이 나오는 건물에 먼저 닿는다.
-- 목록 건물의 89%가 다음 해에도 10일 이상 신고가 있었다. 한 번 반짝한 건물이 아니라 해마다 반복되는 건물을 고른다는 뜻이다.
-- 목록 건물에 사는 세대는 약 15만 세대다.
-- 위반을 더 많이 찾는 것이 목표라면 「위반 기록 있는 건물 먼저」가 약간 낫다(15.7% 대 14.3%). 대신 신고 대응 부담을 줄이는 효과는 조금 작다.
+- 1,000곳(후보 33,486곳의 약 3%)을 먼저 점검하면, 다음 시즌 난방 신고일의 약 5분의 1이 나오는 필지에 먼저 닿는다.
+- 목록 필지의 89%가 그 시즌에도 10일 이상 신고가 있었다. 한 번 반짝한 곳이 아니라 반복되는 곳을 고른다는 뜻이다.
+- 목록 필지에 사는 세대는 약 15만 세대다(PLUTO 현재 값).
+- 목적이 「위반을 더 많이 찾는 것」이라면 「위반 기록 있는 필지 먼저」가 조금 높다(15.4% 대 14.4%). 다만 HPD 위반은 신고로 시작되는 점검에서 나오므로 신고와 독립적이지 않다.
 
-**[가능한 설명]** 난방 문제는 보일러·배관처럼 건물에 붙어 있는 원인이 많아 해마다 같은 건물에서 반복되는 것으로 보인다. 이 분석은 반복을 보여 줄 뿐 원인을 확인하지 않았다.
+**[가능한 설명]** 난방 문제는 보일러·배관처럼 건물에 붙어 있는 원인이 많아 같은 곳에서 반복되는 것으로 보인다. 이 분석은 반복을 보여 줄 뿐 원인을 확인하지 않았다.
 
 ## 5. 한계와 주의
 
-1. **새로 생기는 문제는 못 잡는다.** 올해 신고일의 17%는 지난해 신고가 없던 건물 18,460곳에서 나왔다. 선제 점검은 신고 대응을 보완할 뿐 대신할 수 없다.
-2. **신고를 많이 하는 건물에 치우친다.** 같은 문제라도 덜 신고하는 건물·주민은 목록에 오르기 어렵다.
-   - 공공임대주택(NYCHA)의 난방 문제는 311 자료에 거의 없어 이 목록으로는 다룰 수 없다.
-   - 「세대 대비」 규칙은 작은 건물에 닿지만 적중률이 낮다.
-3. **점검 효과는 검증하지 않았다.** 선제 점검이 실제로 난방 문제를 줄이는지는 시범 운영으로 확인해야 한다(예: 목록 건물 일부를 무작위로 먼저 점검하고 비교).
-4. **한 방향, 한 번의 검증이다.** 자료가 두 해뿐이라 「지난해 → 올해」 한 번만 시험했다.
-5. **HPD 위반은 신고와 독립적이지 않다.** 점검 대부분이 신고로 시작되므로, 신고가 많은 건물에서 위반이 더 많이 발견되는 구조다.
-6. **HPD가 열어 둔 신고는 해마다 기록 방식이 달랐다**(지난해 2,663곳, 올해 7,783곳). 그래서 신호로 쓰기에 안정적이지 않았다.
+1. **포괄 비율은 효과가 아니다.** 「18.6%를 미리 짚었다」는 「18.6%를 줄인다」가 아니다. 선제 점검이 문제를 줄이는지는 시범 운영으로 확인해야 한다(예: 목록 일부를 무작위로 먼저 점검하고 비교).
+2. **새로 생기는 문제는 못 잡는다.** 시즌 신고일의 약 19%는 직전 1년 신고가 없던 필지에서 나왔다.
+3. **신고를 많이 하는 곳에 치우친다.** 덜 신고하는 건물·주민은 목록에 오르기 어렵다. 공공임대주택(NYCHA)의 난방 문제는 311 자료에 거의 없다.
+4. **한 시즌, 한 방향의 검증이다.** 자료가 두 해뿐이다. 대략의 범위는 필지 구성에 따른 흔들림만 보여 줄 뿐, 다른 해의 결과를 보장하지 않는다.
+5. **단위가 필지(BBL)다.** 실제 건물 수, 점검 건수, 비용은 추정하지 않았다.
+6. **세대 수는 현재 PLUTO 값이다.** 선정 시점의 값과 조금 다를 수 있다.
 
 ## 6. 목록의 모습 (1,000곳, 신고일 순)
 
-| 자치구 | 건물 | 세대 |
+| 자치구 | 필지 | 세대 |
 |---|---:|---:|
-| 브롱크스 | 414 | 62,511 |
-| 브루클린 | 240 | 32,872 |
-| 맨해튼 | 213 | 32,294 |
-| 퀸스 | 122 | 21,277 |
-| 스태튼아일랜드 | 11 | 3,275 |
+| 브롱크스 | 418 | 62,784 |
+| 브루클린 | 234 | 31,803 |
+| 맨해튼 | 212 | 29,640 |
+| 퀸스 | 122 | 20,308 |
+| 스태튼아일랜드 | 14 | 3,506 |
 
-- 규모로는 20~199세대 건물이 74%다.
-- 건물 목록(주소 포함)은 `proposal/tables/best_list_1000_buildings.csv`에만 두고 대시보드에는 싣지 않는다.
+- 규모로는 20~199세대 필지가 74%다.
+- 필지 목록(주소 포함)은 `proposal/tables/best_list_1000_buildings.csv`에만 두고 대시보드에는 싣지 않는다.
+
+## 7. 바뀐 점 (2026-11-28, 심사 의견 반영)
+
+| 항목 | 처음 계산 | 바꾼 뒤 |
+|---|---|---|
+| 선정 자료 | 2024-11-01 ~ 2025-10-31 (시즌 시작 뒤까지) | 2024-11-01 ~ **2025-09-30** (시즌 전날까지) |
+| 평가 기간 | 2025-11-01 ~ 2026-10-31 (시즌 첫 달 빠짐, 다음 시즌 시작 포함) | **2025-10-01 ~ 2026-05-31** (난방 시즌) |
+| 위반 기반 규칙 | 점검일 2025-11-10까지 사용 → 평가 기간과 10일 겹침 | 점검일 2025-09-30까지만 |
+| 「HPD 열어 둔 신고」 규칙 | 비교에 포함 | 당시 보였는지 확인할 수 없어 제외 |
+| 표현 | 「신고일 순이 가장 잘 맞았다」, 「건물」 | 「신고 이력 기반 규칙들이 비슷하게 약 8배」, 「필지(BBL)」, 「포괄 비율은 효과가 아님」 |
+| 결과 (1,000곳, 신고일 순) | 18.4% (무작위 2.3%) | 18.6% (무작위 2.4%) |
+
+- 결론은 바뀌지 않았다.
+- 바뀌기 전 결과는 `backup/20261128_before_proposal_timing/`에 있다.
 
 ---
 
-자료와 재현: `scripts/proposal/heat_priority_backtest.py`, 결과 표 `reports/proposal/tables/`.
+재현: `scripts/proposal/heat_priority_backtest.py`. 결과 표: `reports/proposal/tables/`.
